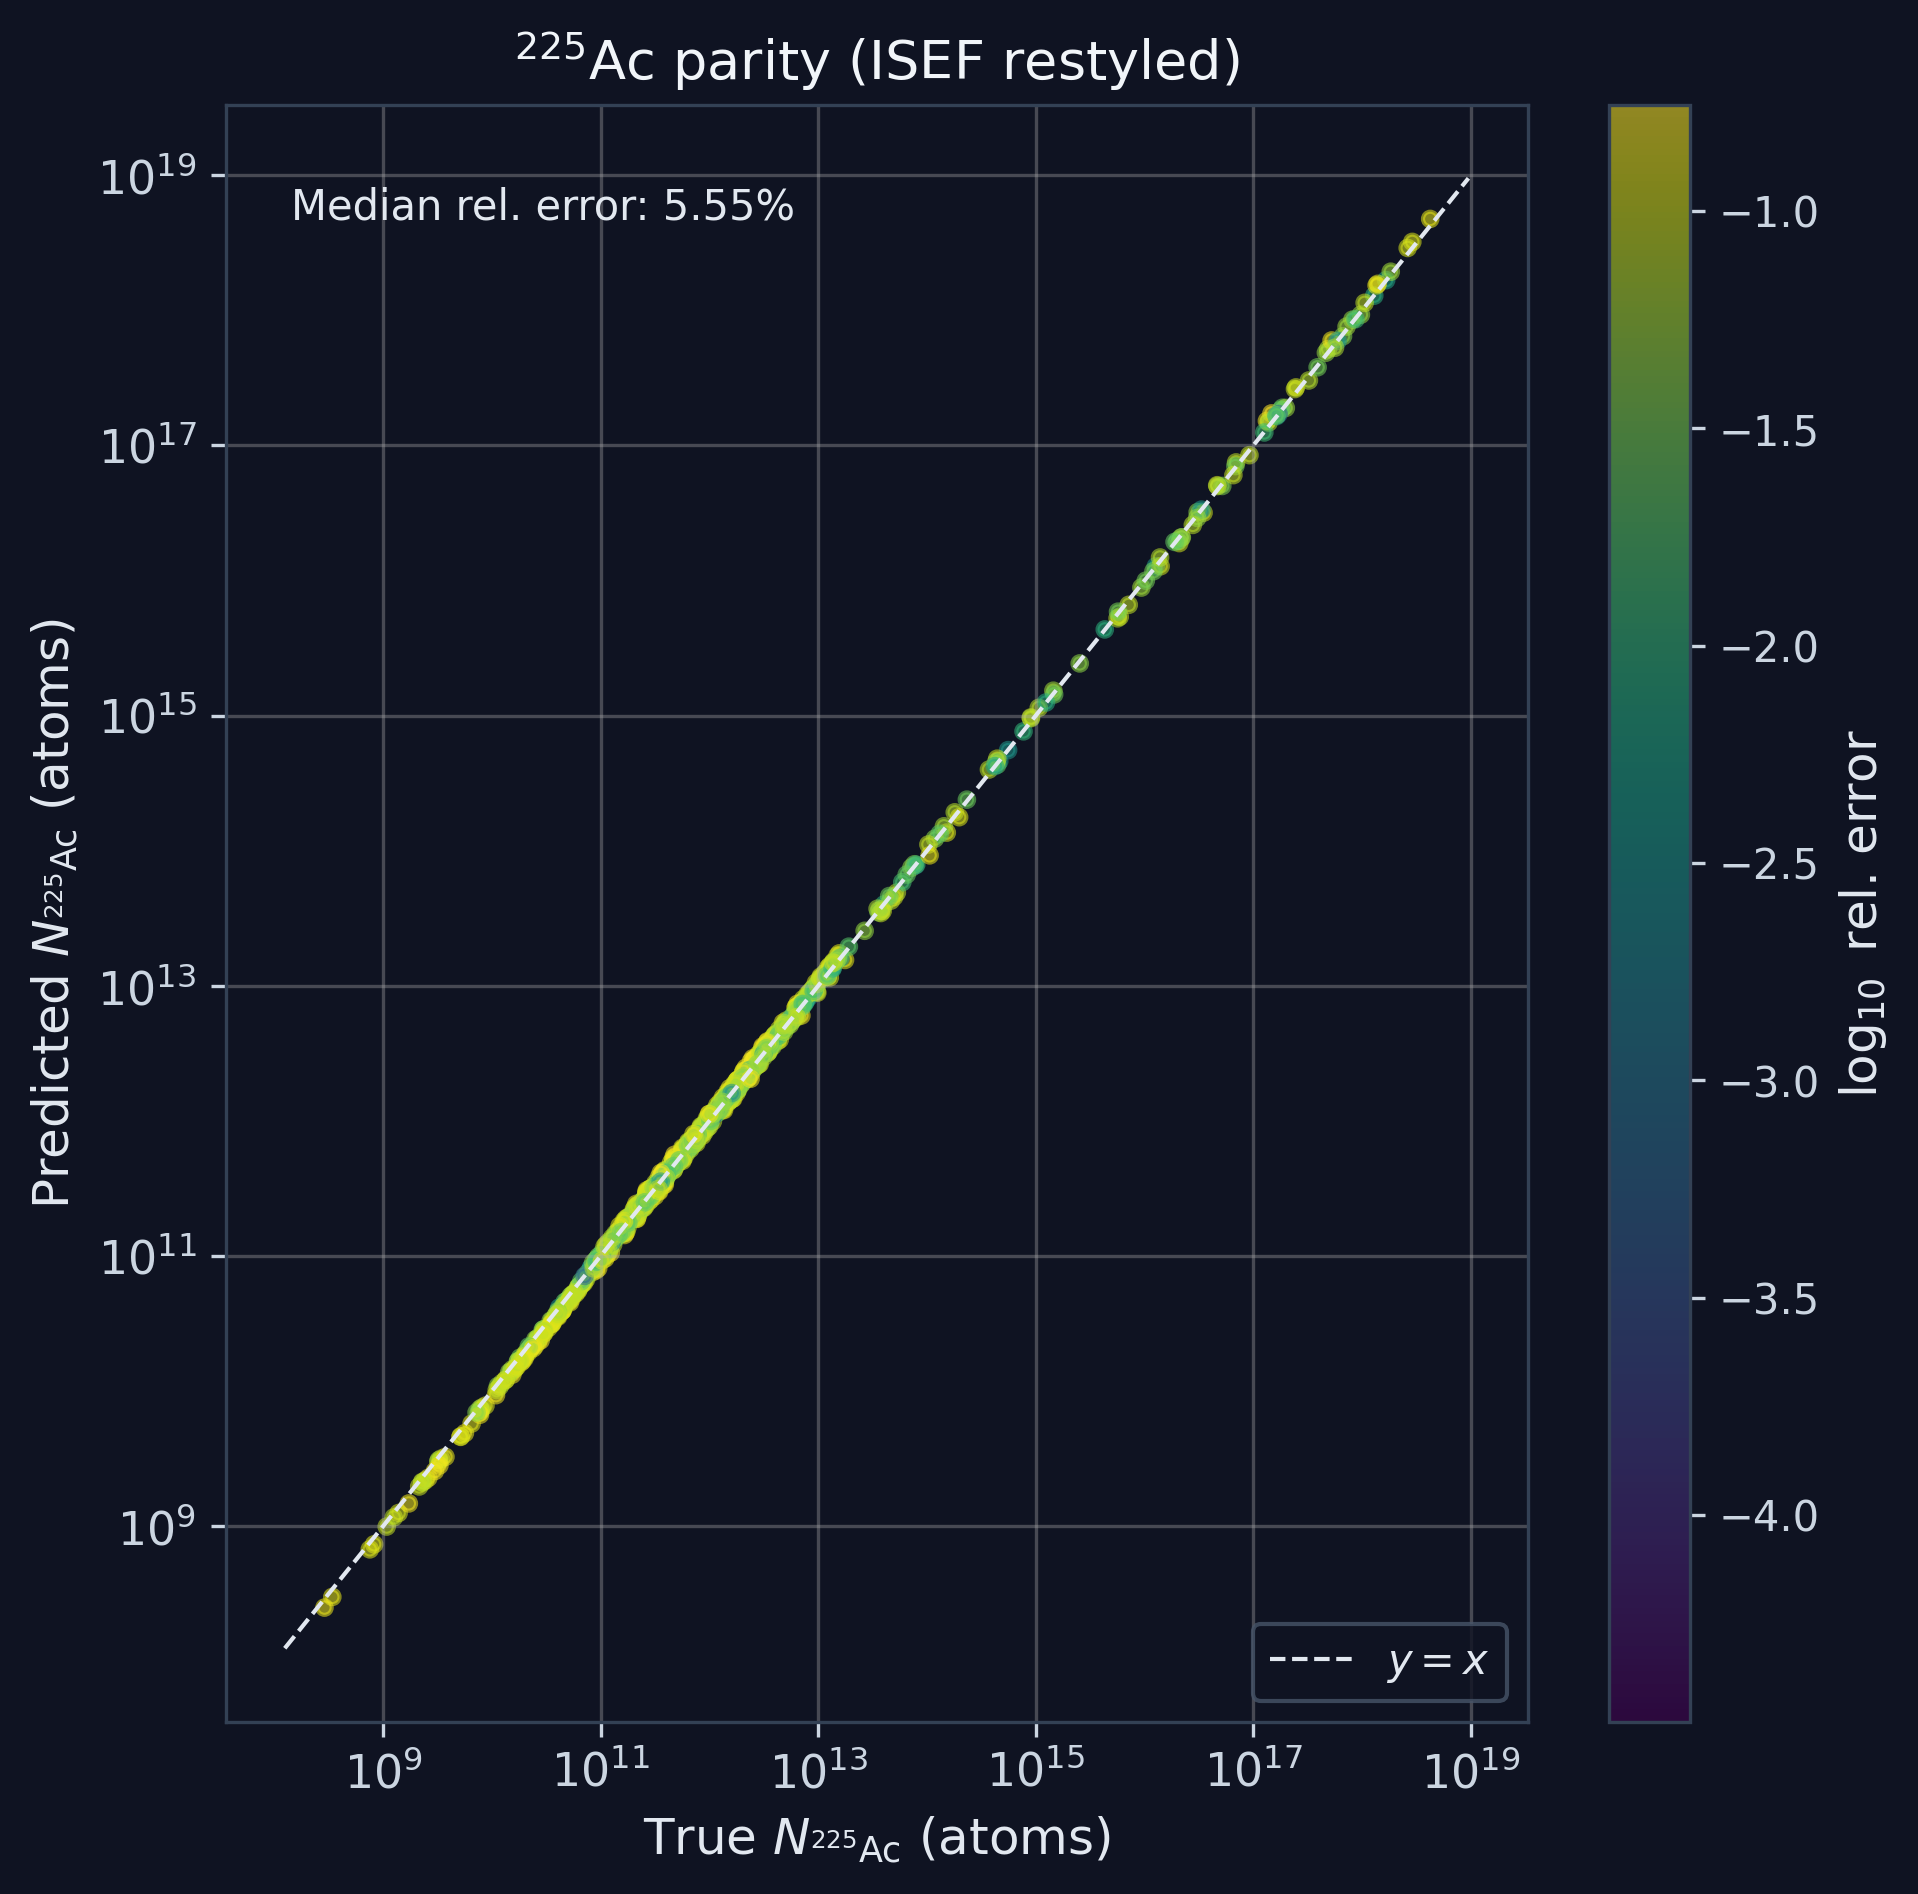
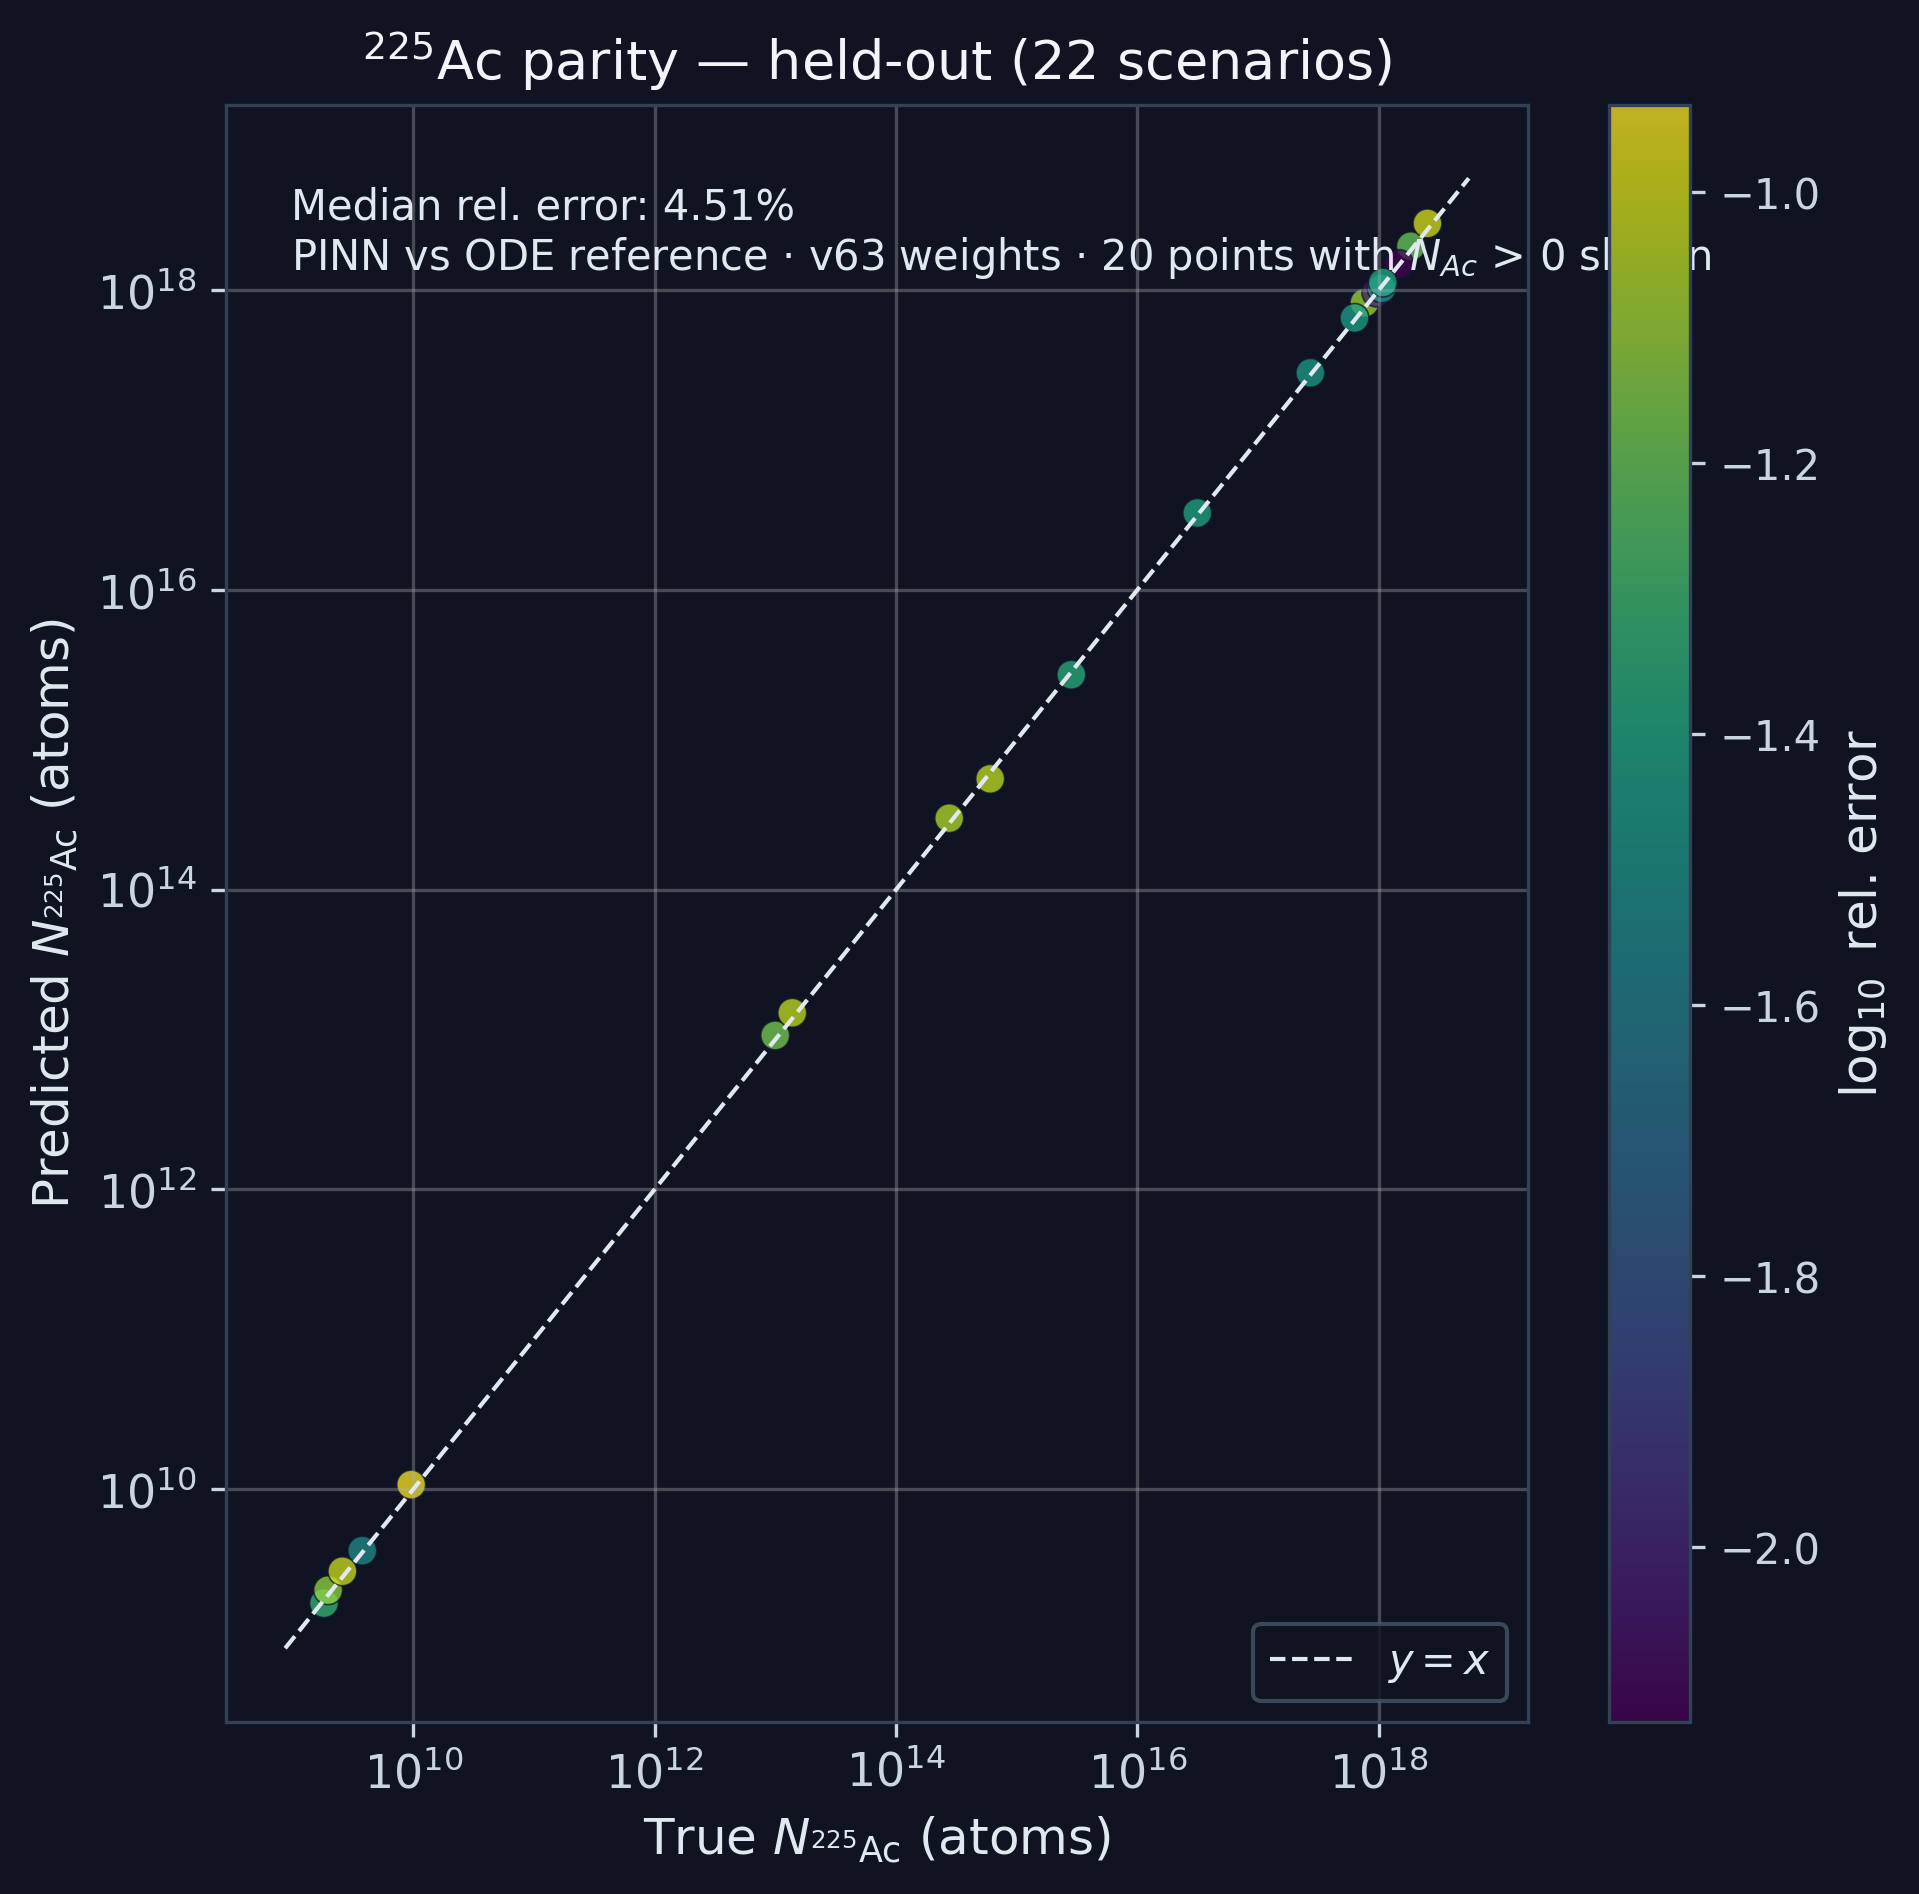
Align parity figure with 4.51% held-out metric (22 scenarios).

diff --git a/scripts/isef_figures.py b/scripts/isef_figures.py
@@ -5,7 +5,7 @@ Generates:
   - graphs/isef_isotope_evolution.png   (Ac-225 activity vs time + harvest window)
   - graphs/isef_loss_trajectory_12k.png (dual-axis loss + 12k projection)
   - graphs/isef_mass_conservation.png   (mass budget residuals)
-  - graphs/isef_parity_restyled.png     (restyled pred vs true)
+  - graphs/isef_parity_restyled.png     (held-out Ac-225 parity, 22 scenarios)
 
 Run: python scripts/isef_figures.py
 """
@@ -320,6 +320,48 @@ def plot_mass_conservation(model) -> None:
     _save(fig, "isef_mass_conservation.png")
 
 
+HELDOUT_DETAILS = ROOT / "analysis" / "validation" / "heldout_validation_details.csv"
+HELDOUT_SUMMARY = ROOT / "analysis" / "validation" / "heldout_validation_summary.csv"
+V63_VALIDATION = RESULTS / "v63_validation_20260530.json"
+
+
+def _canonical_heldout_ac225_median() -> tuple[float, int]:
+    """Official held-out Ac-225 median (22 scenarios, includes empty-target zeros)."""
+    if HELDOUT_SUMMARY.is_file():
+        df = pd.read_csv(HELDOUT_SUMMARY)
+        row = df.loc[(df["regime"] == "all") & (df["case_type"] == "all") & (df["species"] == "Ac-225")]
+        if not row.empty:
+            n = int(row.iloc[0]["n"])
+            return float(row.iloc[0]["median_rel_error"]), n
+    if V63_VALIDATION.is_file():
+        import json
+
+        payload = json.loads(V63_VALIDATION.read_text(encoding="utf-8"))
+        med = float(payload["criteria"]["heldout_ac225_median_rel"])
+        return med, 22
+    return float("nan"), 0
+
+
+def _load_heldout_ac225_parity() -> tuple[np.ndarray, np.ndarray, np.ndarray, int] | None:
+    """Held-out Ac-225 scenarios with positive truth (plotted on log axes)."""
+    if not HELDOUT_DETAILS.is_file():
+        return None
+    df = pd.read_csv(HELDOUT_DETAILS)
+    if not {"species", "truth", "prediction"}.issubset(df.columns):
+        return None
+    sub = df.loc[df["species"] == "Ac-225"].copy()
+    sub["truth"] = sub["truth"].astype(float)
+    sub["prediction"] = sub["prediction"].astype(float)
+    n_all = int(len(sub))
+    sub = sub.loc[(sub["truth"] > 0) & (sub["prediction"] > 0)]
+    if sub.empty:
+        return None
+    t_pos = sub["truth"].to_numpy(dtype=float)
+    p_pos = sub["prediction"].to_numpy(dtype=float)
+    rel = np.abs(p_pos - t_pos) / t_pos
+    return t_pos, p_pos, rel, n_all
+
+
 def _load_training_csv_for_parity() -> pd.DataFrame | None:
     """Load supervised rows; fall back to kaggle_kernel copy if data/ is empty."""
     candidates = [
@@ -352,41 +394,69 @@ def _ensure_parity_init_columns(tdf: pd.DataFrame) -> pd.DataFrame:
 
 
 def plot_parity_restyled(model) -> None:
-    """Restyled Ac-225 parity: PINN vs ODE targets using correct init_N* inputs."""
-    tdf = _load_training_csv_for_parity()
-    if tdf is None:
-        print("[isef_figures] skip parity — no pinn_training_data.csv")
-        return
-    if not {"N_Ac225", "time", "phi", "energy"}.issubset(tdf.columns):
-        print("[isef_figures] skip parity — missing columns")
-        return
+    """Restyled Ac-225 parity on 22 held-out scenarios (matches v63 validation JSON)."""
+    held = _load_heldout_ac225_parity()
+    dataset = "heldout_22"
+    if held is not None:
+        t_pos, p_pos, rel, n_all = held
+        med, n_official = _canonical_heldout_ac225_median()
+        if not np.isfinite(med):
+            med = float(np.median(rel))
+            n_official = n_all
+        title = rf"$^{{225}}$Ac parity — held-out ({n_official} scenarios)"
+        subtitle = f"PINN vs ODE reference · v63 weights · {len(t_pos)} points with $N_{{Ac}}$ > 0 shown"
+    else:
+        dataset = "training_sample"
+        tdf = _load_training_csv_for_parity()
+        if tdf is None:
+            print("[isef_figures] skip parity — no held-out CSV or pinn_training_data.csv")
+            return
+        if not {"N_Ac225", "time", "phi", "energy"}.issubset(tdf.columns):
+            print("[isef_figures] skip parity — missing columns")
+            return
 
-    tdf = _ensure_parity_init_columns(tdf)
-    pos = tdf["N_Ac225"].astype(float) > 0
-    sub = tdf.loc[pos]
-    if len(sub) > 800:
-        sub = sub.sample(n=800, random_state=42)
+        tdf = _ensure_parity_init_columns(tdf)
+        pos = tdf["N_Ac225"].astype(float) > 0
+        sub = tdf.loc[pos]
+        if len(sub) > 800:
+            sub = sub.sample(n=800, random_state=42)
 
-    device = torch.device("cpu")
-    dtype = getattr(getattr(model, "daughter_rate_log_scales", None), "dtype", torch.float32)
-    inputs, targets = prepare_training_tensors(sub, device, dtype=dtype)
-    model.eval()
-    with torch.no_grad():
-        pred_norm = model(inputs)
-    true_atoms = targets[:, 2].cpu().numpy()
-    pred_atoms = (pred_norm[:, 2] * DEFAULT_NAC_SCALE).cpu().numpy()
-    mask = (true_atoms > 0) & (pred_atoms > 0)
-    if not mask.any():
-        print("[isef_figures] skip parity — no positive Ac-225 pairs")
-        return
+        device = torch.device("cpu")
+        dtype = getattr(getattr(model, "daughter_rate_log_scales", None), "dtype", torch.float32)
+        inputs, targets = prepare_training_tensors(sub, device, dtype=dtype)
+        model.eval()
+        with torch.no_grad():
+            pred_norm = model(inputs)
+        true_atoms = targets[:, 2].cpu().numpy()
+        pred_atoms = (pred_norm[:, 2] * DEFAULT_NAC_SCALE).cpu().numpy()
+        mask = (true_atoms > 0) & (pred_atoms > 0)
+        if not mask.any():
+            print("[isef_figures] skip parity — no positive Ac-225 pairs")
+            return
 
-    t_pos = true_atoms[mask]
-    p_pos = pred_atoms[mask]
-    med = float(np.median(np.abs(p_pos - t_pos) / t_pos))
+        t_pos = true_atoms[mask]
+        p_pos = pred_atoms[mask]
+        rel = np.abs(p_pos - t_pos) / t_pos
+        med = float(np.median(rel))
+        title = r"$^{225}$Ac parity (training sample)"
+        subtitle = "Fallback — regenerate held-out CSV for canonical metric"
+        n_official = n_pts
+
+    n_pts = int(len(t_pos))
+    point_size = 48 if n_pts <= 30 else 12
 
     fig, ax = plt.subplots(figsize=(7, 7))
     with plt.rc_context(DARK_RC):
-        sc = ax.scatter(t_pos, p_pos, c=np.log10(np.abs(p_pos - t_pos) / t_pos + 1e-12), s=12, alpha=0.55, cmap="viridis")
+        sc = ax.scatter(
+            t_pos,
+            p_pos,
+            c=np.log10(rel + 1e-12),
+            s=point_size,
+            alpha=0.75 if n_pts <= 30 else 0.55,
+            cmap="viridis",
+            edgecolors="#0f172a",
+            linewidths=0.4 if n_pts <= 30 else 0.0,
+        )
         lo = min(t_pos.min(), p_pos.min()) * 0.5
         hi = max(t_pos.max(), p_pos.max()) * 2.0
         ax.plot([lo, hi], [lo, hi], color="#e2e8f0", ls="--", lw=1, label=r"$y=x$")
@@ -394,14 +464,31 @@ def plot_parity_restyled(model) -> None:
         ax.set_yscale("log")
         ax.set_xlabel(r"True $N_{^{225}\mathrm{Ac}}$ (atoms)")
         ax.set_ylabel(r"Predicted $N_{^{225}\mathrm{Ac}}$ (atoms)")
-        ax.set_title(r"$^{225}$Ac parity (ISEF restyled)")
-        ax.text(0.05, 0.95, f"Median rel. error: {med:.2%}", transform=ax.transAxes, va="top", color="#e2e8f0")
+        ax.set_title(title)
+        ax.text(
+            0.05,
+            0.95,
+            f"Median rel. error: {med:.2%}\n{subtitle}",
+            transform=ax.transAxes,
+            va="top",
+            color="#e2e8f0",
+            fontsize=10,
+        )
         cbar = plt.colorbar(sc, ax=ax, label=r"$\log_{10}$ rel. error")
         style_colorbar_dark(cbar)
         ax.legend(loc="lower right")
         ax.grid(True, which="both", alpha=0.35)
         _style_figure(ax)
-    _save(fig, "isef_parity_restyled.png", {"n_points": int(mask.sum()), "median_rel": med})
+    _save(
+        fig,
+        "isef_parity_restyled.png",
+        {
+            "n_points": n_pts,
+            "n_heldout_official": n_official if held is not None else n_pts,
+            "median_rel": med,
+            "dataset": dataset,
+        },
+    )
 
 
 def main() -> None:

diff --git a/docs/COLLEGE_ONE_PAGER.md b/docs/COLLEGE_ONE_PAGER.md
@@ -1,0 +1,49 @@
+# IsotopePINN — Physics-Informed Surrogate for Ac-225 Production Planning
+
+**Computational pharmacology · Physics-informed ML · Nuclear supply planning**
+
+Samuel Ogunnubi · Dual-Enrollment Student, Anne Arundel Community College · sam.ogunnubi0@gmail.com · May 30, 2026
+
+## The Problem
+
+Ac-225 is a scarce alpha-emitting radiopharmaceutical crucial for targeted alpha therapy (TAT). Planning irradiation scenarios—balancing flux, neutron energy, and time—requires solving a stiff five-isotope chain many times. Classical ODE integrators are accurate but too slow for large-scale parameter sweeps. This surrogate enables rapid screening of thousands of flux/energy/time combinations to rank irradiation settings for Ac-225 yield.
+
+## The Approach
+
+- **Reference:** 0D Bateman ODE with NNDC/JENDL half-lives and cross sections (Radau solver).
+- **Surrogate:** Physics-informed neural network (600-epoch physics pretrain + 3,400-epoch joint training; mass conservation in loss).
+- **Validation:** Six independent checks vs ODE reference (no lab or hospital data).
+- **Speed:** 10,000-point parameter sweep in seconds vs hours for sequential ODE (benchmark in Validation tab).
+
+## Validation Results
+
+**Overall: 6/6 PASS** (independent gates)
+
+| Validation Check | Result |
+|------------------|--------|
+| Empty-target safety | PASS |
+| Production scenario (14 MeV, full Ra-226) | PASS (9.9% Ac-225 vs ODE) |
+| Decay-chain ingrowth | PASS |
+| Species quality gate | PASS |
+| PINN vs ODE correlation | PASS |
+| Held-out Ac-225 (22 scenarios) | **4.51% median error** |
+
+Strongest regimes: thermal / 14 MeV (~4–5%). Weakest: epithermal (~9.5%), threshold ~6.4 MeV (~8.5%).
+
+**Figure:** `graphs/isef_parity_restyled.png` — held-out Ac-225 parity (22 scenarios; 20 with Ac-225 > 0 plotted on log axes).
+
+## Limitations & Scope
+
+- **Validation boundary:** Ground truth is ODE reference only, not reactor or clinical assay data.
+- **Data & reproducibility:** NNDC/ENSDF half-lives; JENDL cross sections; `results/v63_validation_20260530.json`, weights v63.
+- **Dimensionality:** 0D lumped model — no MCNP/OpenMC geometry or patient PK.
+- **Assumptions:** Impurity/recovery sliders are post-processed, not PINN training targets.
+- **Future work:** Transport coupling, expanded held-out regimes, published benchmark comparison.
+
+## Links
+
+- **Interactive demo:** https://lhyjrhmwzxqfpuuwsux7zh.streamlit.app
+- **Code & validation:** https://github.com/samogunnubi0-del/PINN
+- **Weights:** `weights/pinn_best_weights.pth` · SHA-256 prefix `7c21debe` · v63 · 6/6 PASS
+
+First load after idle may take ~1 minute.
